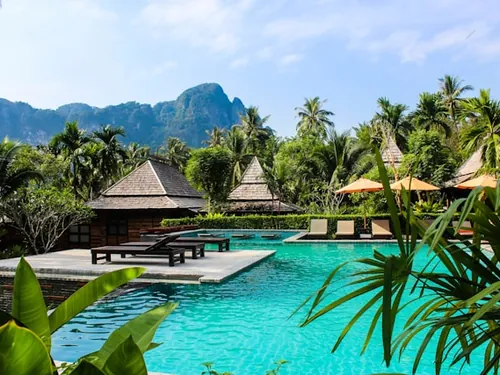
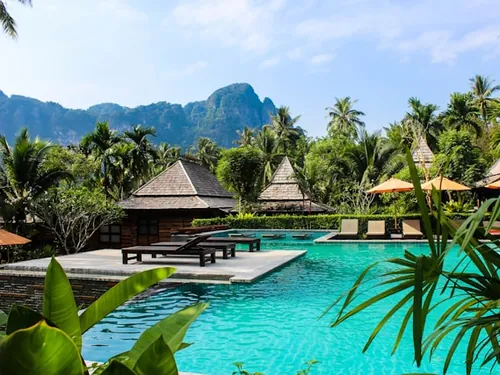
Кадры выбраны вручную: Таиланд левее, Мальдивы ближе к берегу
Александра посмотрела лист вариантов (по три кадра на картинку в реальном
размере карточки) и выбрала. Четыре из шести совпали с тем, что уже стояло,
поменялись два: у Таиланда кадр сдвинут влево, чтобы бунгало оказались в
середине, у Мальдив взят фрагмент ближе к берегу — остров стал крупнее.

Вместо trim_top в скрипте теперь явные координаты кадра. Так решение записано
в коде и воспроизводится: центр берётся только там, где он и правда верный —
Вьетнам, Китай, ЮАР, Египет, ОАЭ, «Помогите выбрать».

Скрипт печатает коэффициент растяжения и предупреждает, если кадр придётся
растягивать больше чем в 1.3 раза: оригиналы всего 640 px, плотный кадр мылит.

diff --git a/index.html b/index.html
@@ -5,7 +5,7 @@
   <meta name="viewport" content="width=device-width, initial-scale=1, viewport-fit=cover, user-scalable=no">
   <meta name="robots" content="noindex">
   <title>Подобрать отдых — Прайм тур</title>
-  <link rel="stylesheet" href="css/style.css?v=20260826b">
+  <link rel="stylesheet" href="css/style.css?v=20260826c">
   <!-- SDK Telegram Mini Apps. В обычном браузере тоже подгружается: даёт пустой initData — значит режим «сайт». -->
   <script src="https://telegram.org/js/telegram-web-app.js?58"></script>
   <!-- Локальная отладка: index.html?dev=1 подменяет Telegram.WebApp заглушкой (см. js/dev-shim.js) -->
@@ -28,7 +28,7 @@
      значит придёт свежая страница. Флаг в sessionStorage не даёт зациклиться,
      если version.json почему-то врёт. */
   (function () {
-    var BUILT = "20260826b";
+    var BUILT = "20260826c";
     var GUARD = "primetour_reloaded_for";
     try {
       fetch("version.json?t=" + Date.now(), { cache: "no-store" })
@@ -50,7 +50,7 @@
   <noscript>Для квиза нужен JavaScript. Напишите нам напрямую: <a href="https://t.me/primetour">t.me/primetour</a></noscript>
   <!-- ?v= — чтобы Telegram не подсовывал старую версию из кэша: меняем при каждой правке.
        Тот же номер продублирован в version.json и в BUILT выше — все три меняются вместе. -->
-  <script src="js/quiz-config.js?v=20260826b"></script>
-  <script src="js/app.js?v=20260826b"></script>
+  <script src="js/quiz-config.js?v=20260826c"></script>
+  <script src="js/app.js?v=20260826c"></script>
 </body>
 </html>

diff --git a/js/quiz-config.js b/js/quiz-config.js
@@ -7,7 +7,7 @@
    Движок сначала ищет img/<name>.webp, если нет — img/<name>.svg (заглушка).
    ===================================================================== */
 window.QUIZ_CONFIG = {
-  version: "2026-08-26",
+  version: "2026-08-26b",
 
   // Куда уходят ответы: URL веб-приложения Google Apps Script (кончается на /exec).
   backendUrl: "https://script.google.com/macros/s/AKfycbzjILOl0xIL4UuB_0lKLAeTKPnsvcIwKHRI3DPc54IywS50KsMqTVhcaSGLqul00I0o/exec",
